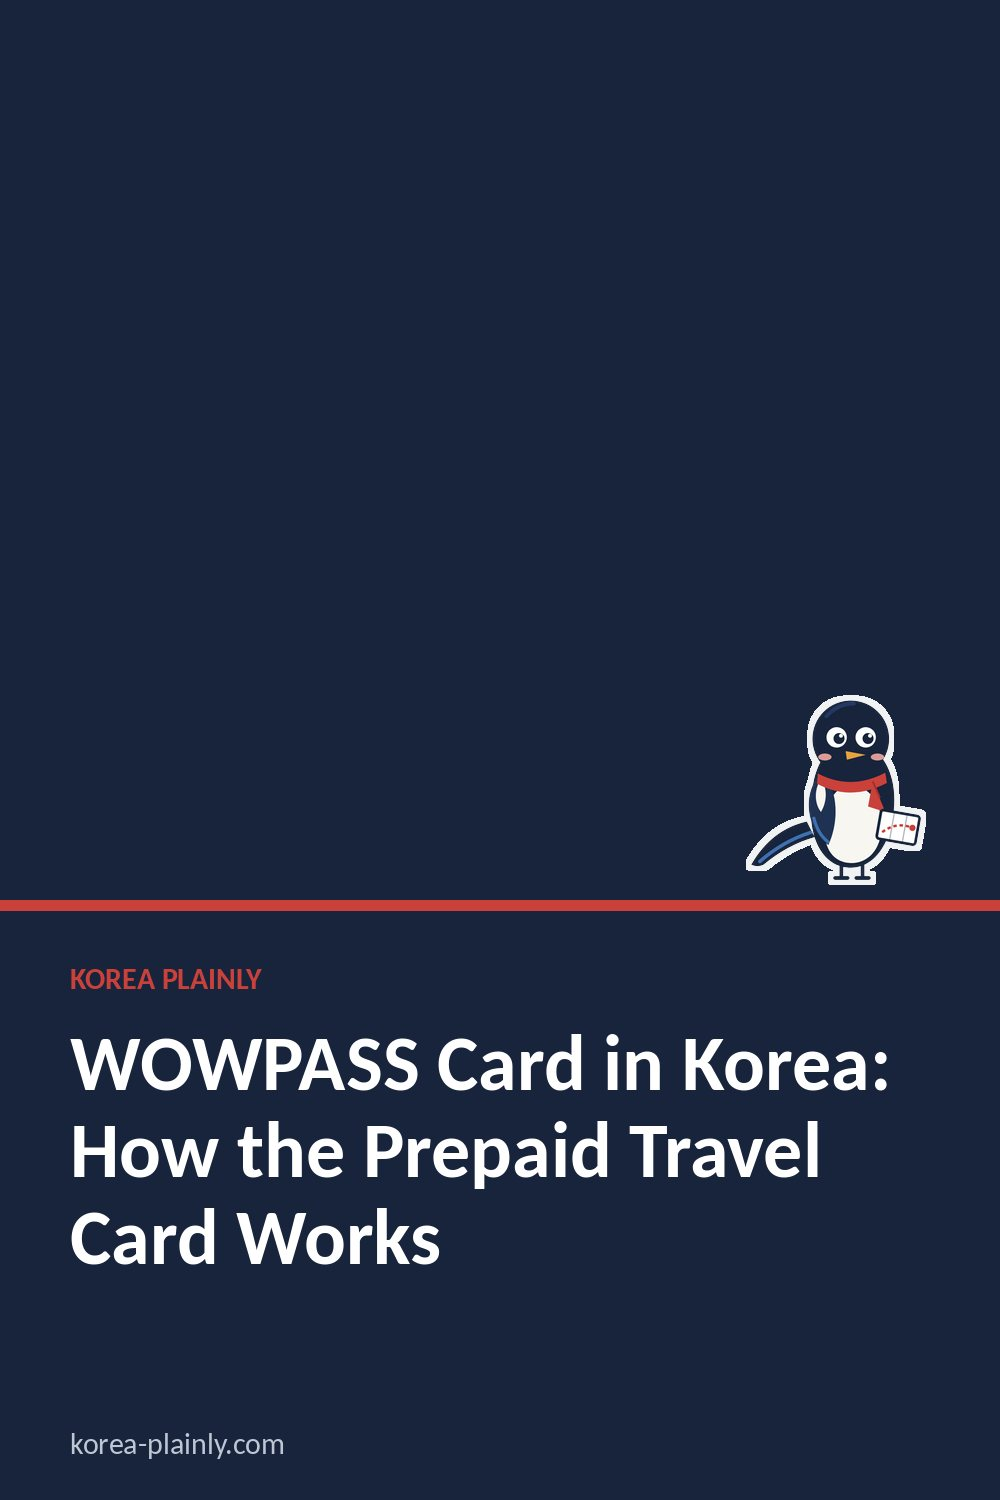
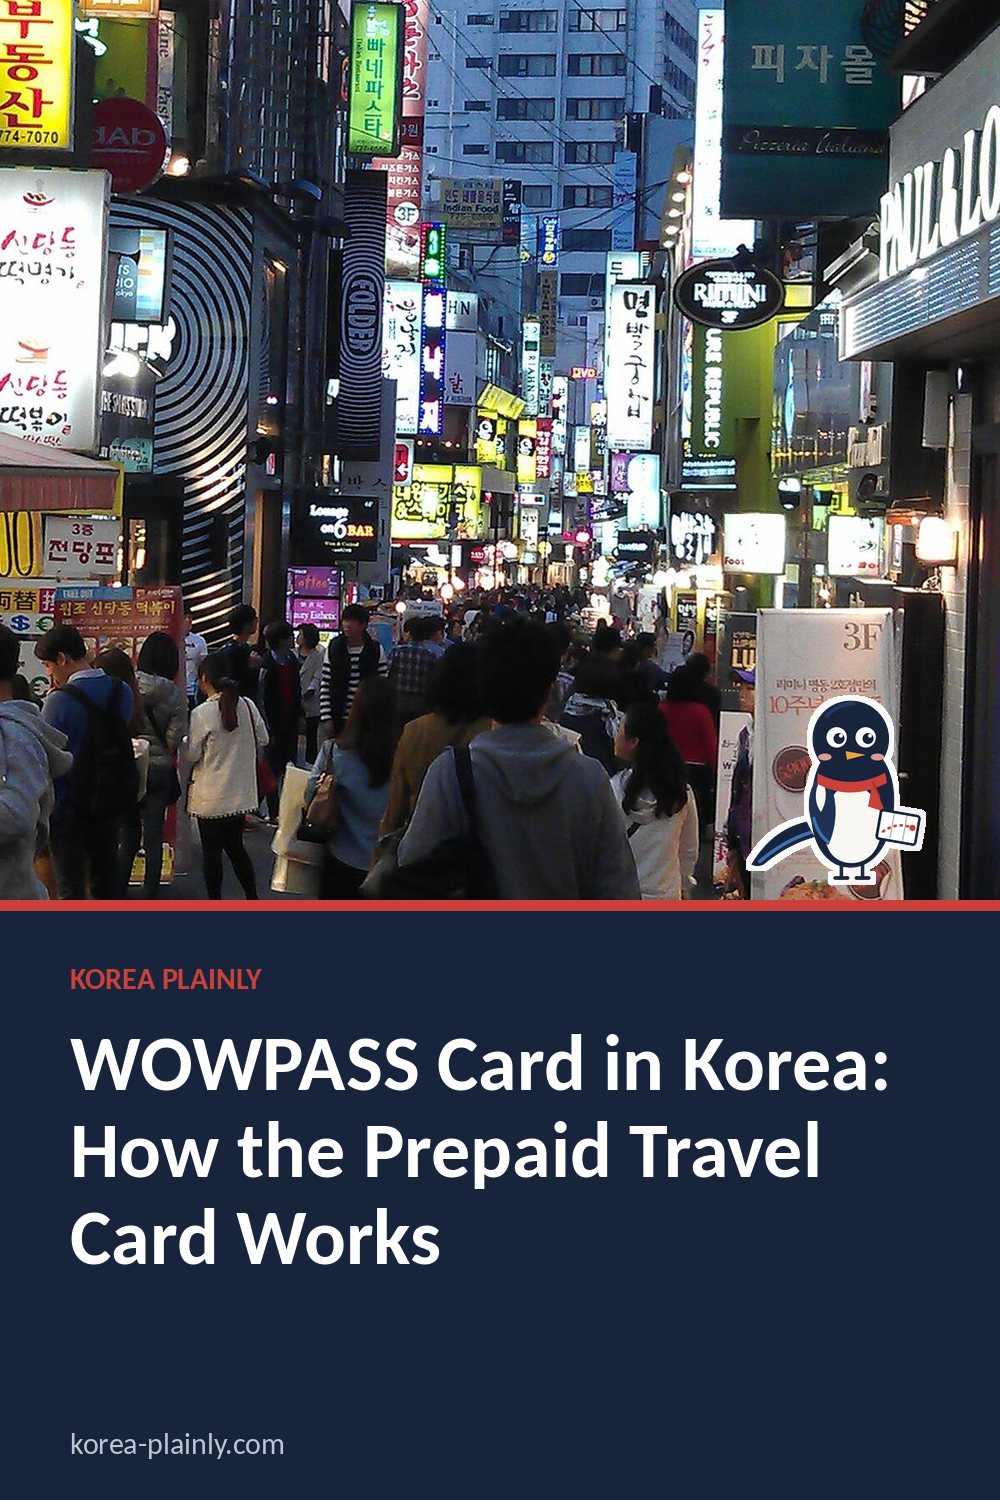
WOWPASS guide: use the Myeongdong street photo as cover (no Commons match)
Claude-Session: https://claude.ai/code/session_01V8RivGErEWF2X8bNq5HsHU

diff --git a/wowpass-card-korea.html b/wowpass-card-korea.html
@@ -44,7 +44,7 @@
 
 <meta
   property="og:image"
-  content="https://korea-plainly.com/street.jpg"
+  content="https://korea-plainly.com/photo-korea-money-exchange.jpg"
 >
 
 <meta
@@ -69,7 +69,7 @@
 
 <meta
   name="twitter:image"
-  content="https://korea-plainly.com/street.jpg"
+  content="https://korea-plainly.com/photo-korea-money-exchange.jpg"
 >
 
 <style>
@@ -248,7 +248,7 @@ footer {
 <link rel="stylesheet" href="article.css?v=3">
 <link rel="stylesheet" href="https://fonts.googleapis.com/css2?family=DM+Sans:wght@400;500;600;700&family=Playfair+Display:ital,wght@0,600;1,600&display=swap">
 <link rel="icon" href="/favicon.svg" type="image/svg+xml">
-<script type="application/ld+json" id="kp-article-ld">{"@context": "https://schema.org", "@type": "Article", "headline": "WOWPASS Card in Korea: How the Prepaid Travel Card Works", "description": "Learn how to get, load and use a WOWPASS card in Korea, including its separate payment and transit balances, and what to check before relying on it.", "image": ["https://korea-plainly.com/street.jpg"], "datePublished": "2026-10-19", "dateModified": "2026-10-19", "author": {"@type": "Person", "name": "Jungsuk Kim", "url": "https://korea-plainly.com/about.html#author"}, "publisher": {"@type": "Organization", "name": "Korea Plainly", "url": "https://korea-plainly.com/"}, "mainEntityOfPage": "https://korea-plainly.com/wowpass-card-korea.html"}</script>
+<script type="application/ld+json" id="kp-article-ld">{"@context": "https://schema.org", "@type": "Article", "headline": "WOWPASS Card in Korea: How the Prepaid Travel Card Works", "description": "Learn how to get, load and use a WOWPASS card in Korea, including its separate payment and transit balances, and what to check before relying on it.", "image": ["https://korea-plainly.com/photo-korea-money-exchange.jpg"], "datePublished": "2026-10-19", "dateModified": "2026-10-19", "author": {"@type": "Person", "name": "Jungsuk Kim", "url": "https://korea-plainly.com/about.html#author"}, "publisher": {"@type": "Organization", "name": "Korea Plainly", "url": "https://korea-plainly.com/"}, "mainEntityOfPage": "https://korea-plainly.com/wowpass-card-korea.html"}</script>
 <script type="application/ld+json" id="kp-breadcrumb-ld">{"@context": "https://schema.org", "@type": "BreadcrumbList", "itemListElement": [{"@type": "ListItem", "position": 1, "name": "Home", "item": "https://korea-plainly.com/"}, {"@type": "ListItem", "position": 2, "name": "Guides", "item": "https://korea-plainly.com/guides.html"}, {"@type": "ListItem", "position": 3, "name": "Money", "item": "https://korea-plainly.com/guides.html?category=money"}, {"@type": "ListItem", "position": 4, "name": "WOWPASS Card in Korea: How the Prepaid Travel Card Works", "item": "https://korea-plainly.com/wowpass-card-korea.html"}]}</script>
 <meta property="article:published_time" content="2026-10-19">
 </head>
@@ -290,9 +290,10 @@ Learn how to get, load and use a WOWPASS card in Korea, including its separate p
 
 <img
   class="cover"
-  src="street.jpg"
-  alt="A traveller using a WOWPASS prepaid card to pay in Korea" srcset="img/street.5386e01c.w480.webp 480w, img/street.5386e01c.w800.webp 800w, img/street.5386e01c.w1200.webp 1200w, street.jpg 1536w" sizes="(max-width: 860px) 100vw, 820px" fetchpriority="high"
+  src="photo-korea-money-exchange.jpg"
+  alt="A traveller using a WOWPASS prepaid card to pay in Korea" srcset="img/photo-korea-money-exchange.1cc825b4.w480.webp 480w, img/photo-korea-money-exchange.1cc825b4.w800.webp 800w, img/photo-korea-money-exchange.1cc825b4.w1200.webp 1200w, photo-korea-money-exchange.jpg 1600w" sizes="(max-width: 860px) 100vw, 820px" fetchpriority="high"
 >
+<p class="photo-credit" data-kp="photo-credit" style="font-size:12px;color:#777;margin:-18px 0 24px"><a href="https://commons.wikimedia.org/wiki/File:Myeongdong_at_night.jpg" target="_blank" rel="noopener nofollow" style="color:inherit">Photo: Christian Bolz (크리스티안 볼츠), CC BY-SA 4.0, via Wikimedia Commons</a></p>
 
 <article>
 

diff --git a/guides.html b/guides.html
@@ -2559,7 +2559,7 @@ class="guide-card"
 href="wowpass-card-korea.html" data-guide-category="money"
 >
 
-<div class="guide-image" data-thumb="thumb-auto-wowpass-card-korea.svg"><img class="guide-thumb" src="thumb-auto-wowpass-card-korea.svg" alt="" loading="eager" decoding="async">
+<div class="guide-image" data-thumb="photo-korea-money-exchange.jpg"><img class="guide-thumb" src="photo-korea-money-exchange.jpg" alt="" loading="eager" srcset="img/photo-korea-money-exchange.1cc825b4.w480.webp 480w, img/photo-korea-money-exchange.1cc825b4.w800.webp 800w, img/photo-korea-money-exchange.1cc825b4.w1200.webp 1200w, photo-korea-money-exchange.jpg 1600w" sizes="(max-width: 600px) 100vw, (max-width: 1000px) 50vw, 400px" decoding="async">
 
 <span>
 23
